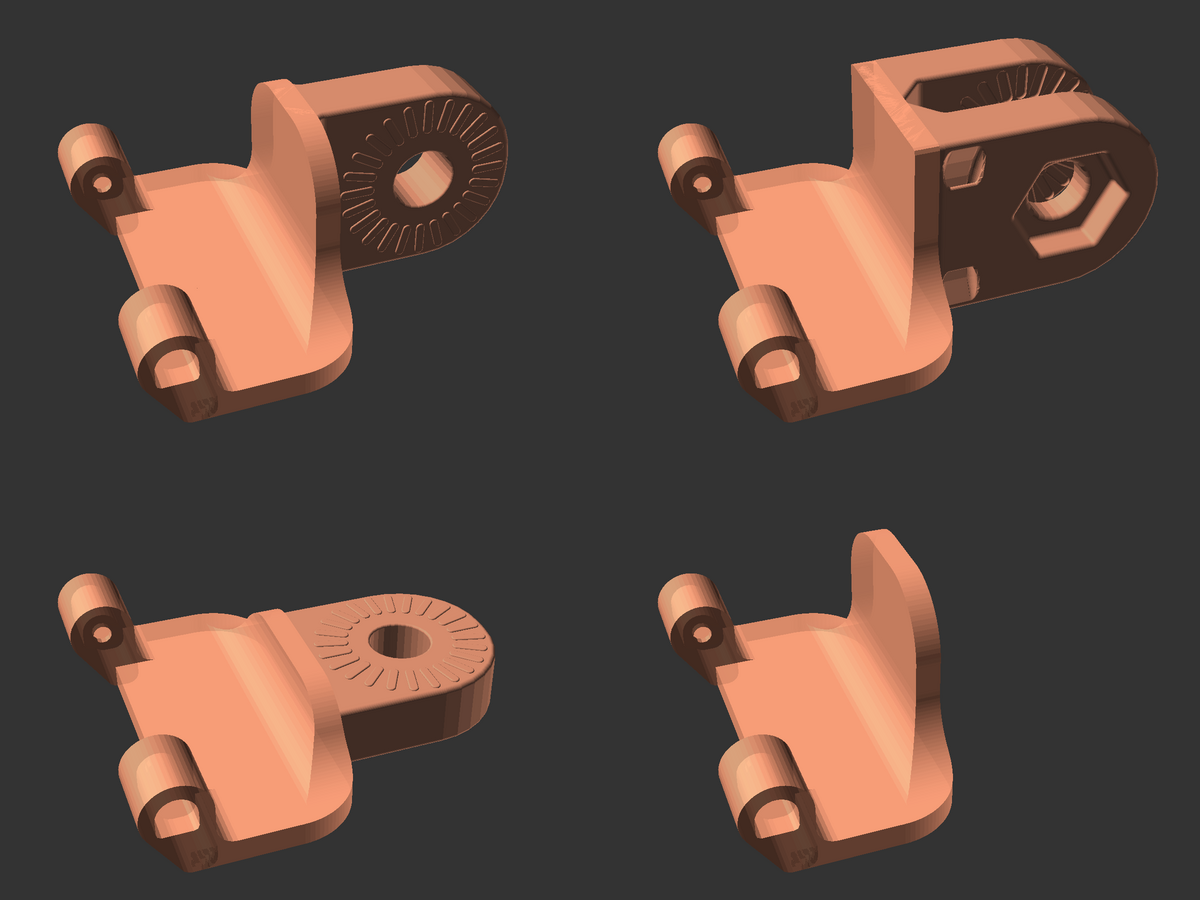
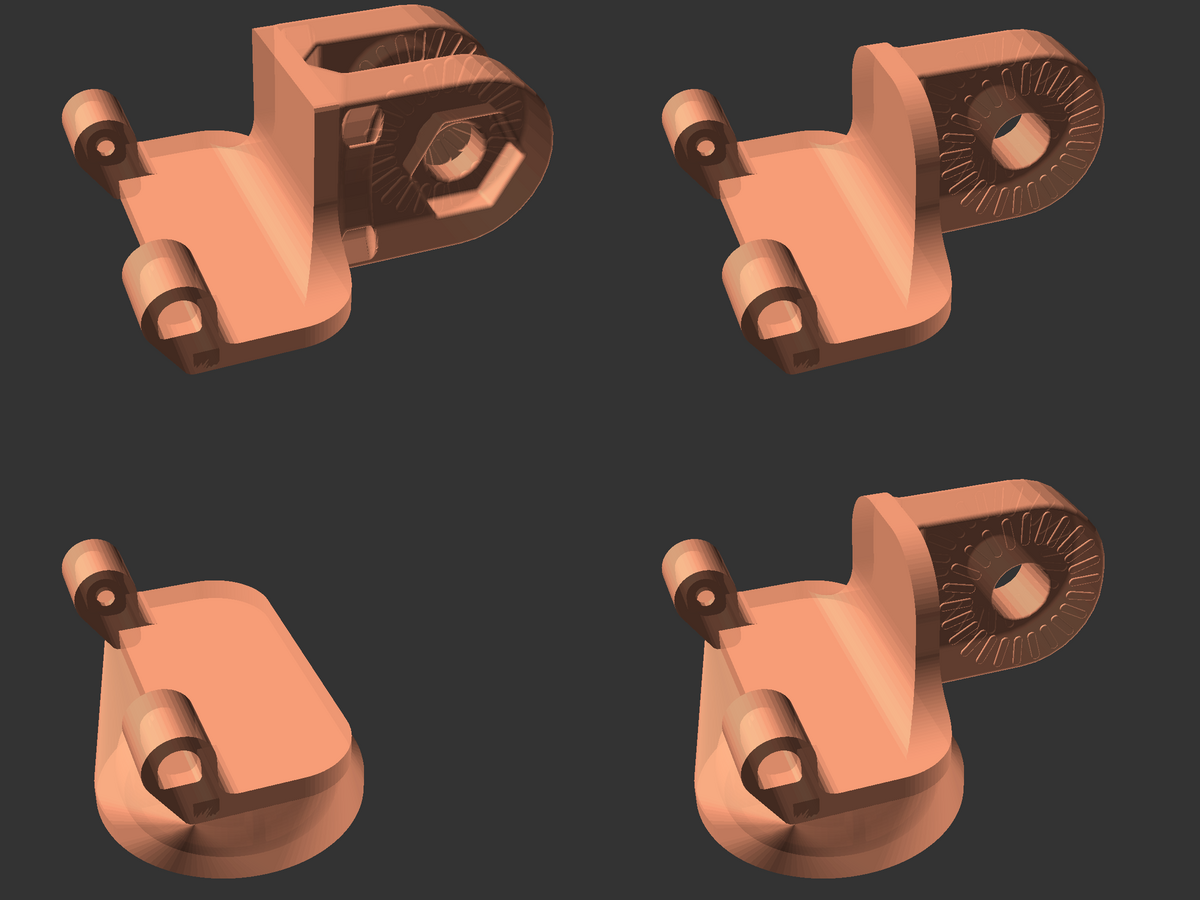
Add ball mount option to Logitech C920 mount adapter model

diff --git a/logitech-c920-slim-adapter/README.md b/logitech-c920-slim-adapter/README.md
@@ -1,4 +1,4 @@
-# Logitech C920 low profile articulating camera adapter
+# Logitech C920 low profile articulating camera mount adapter
 
 [![CC-BY-4.0 license][license-badge]][license]
 
